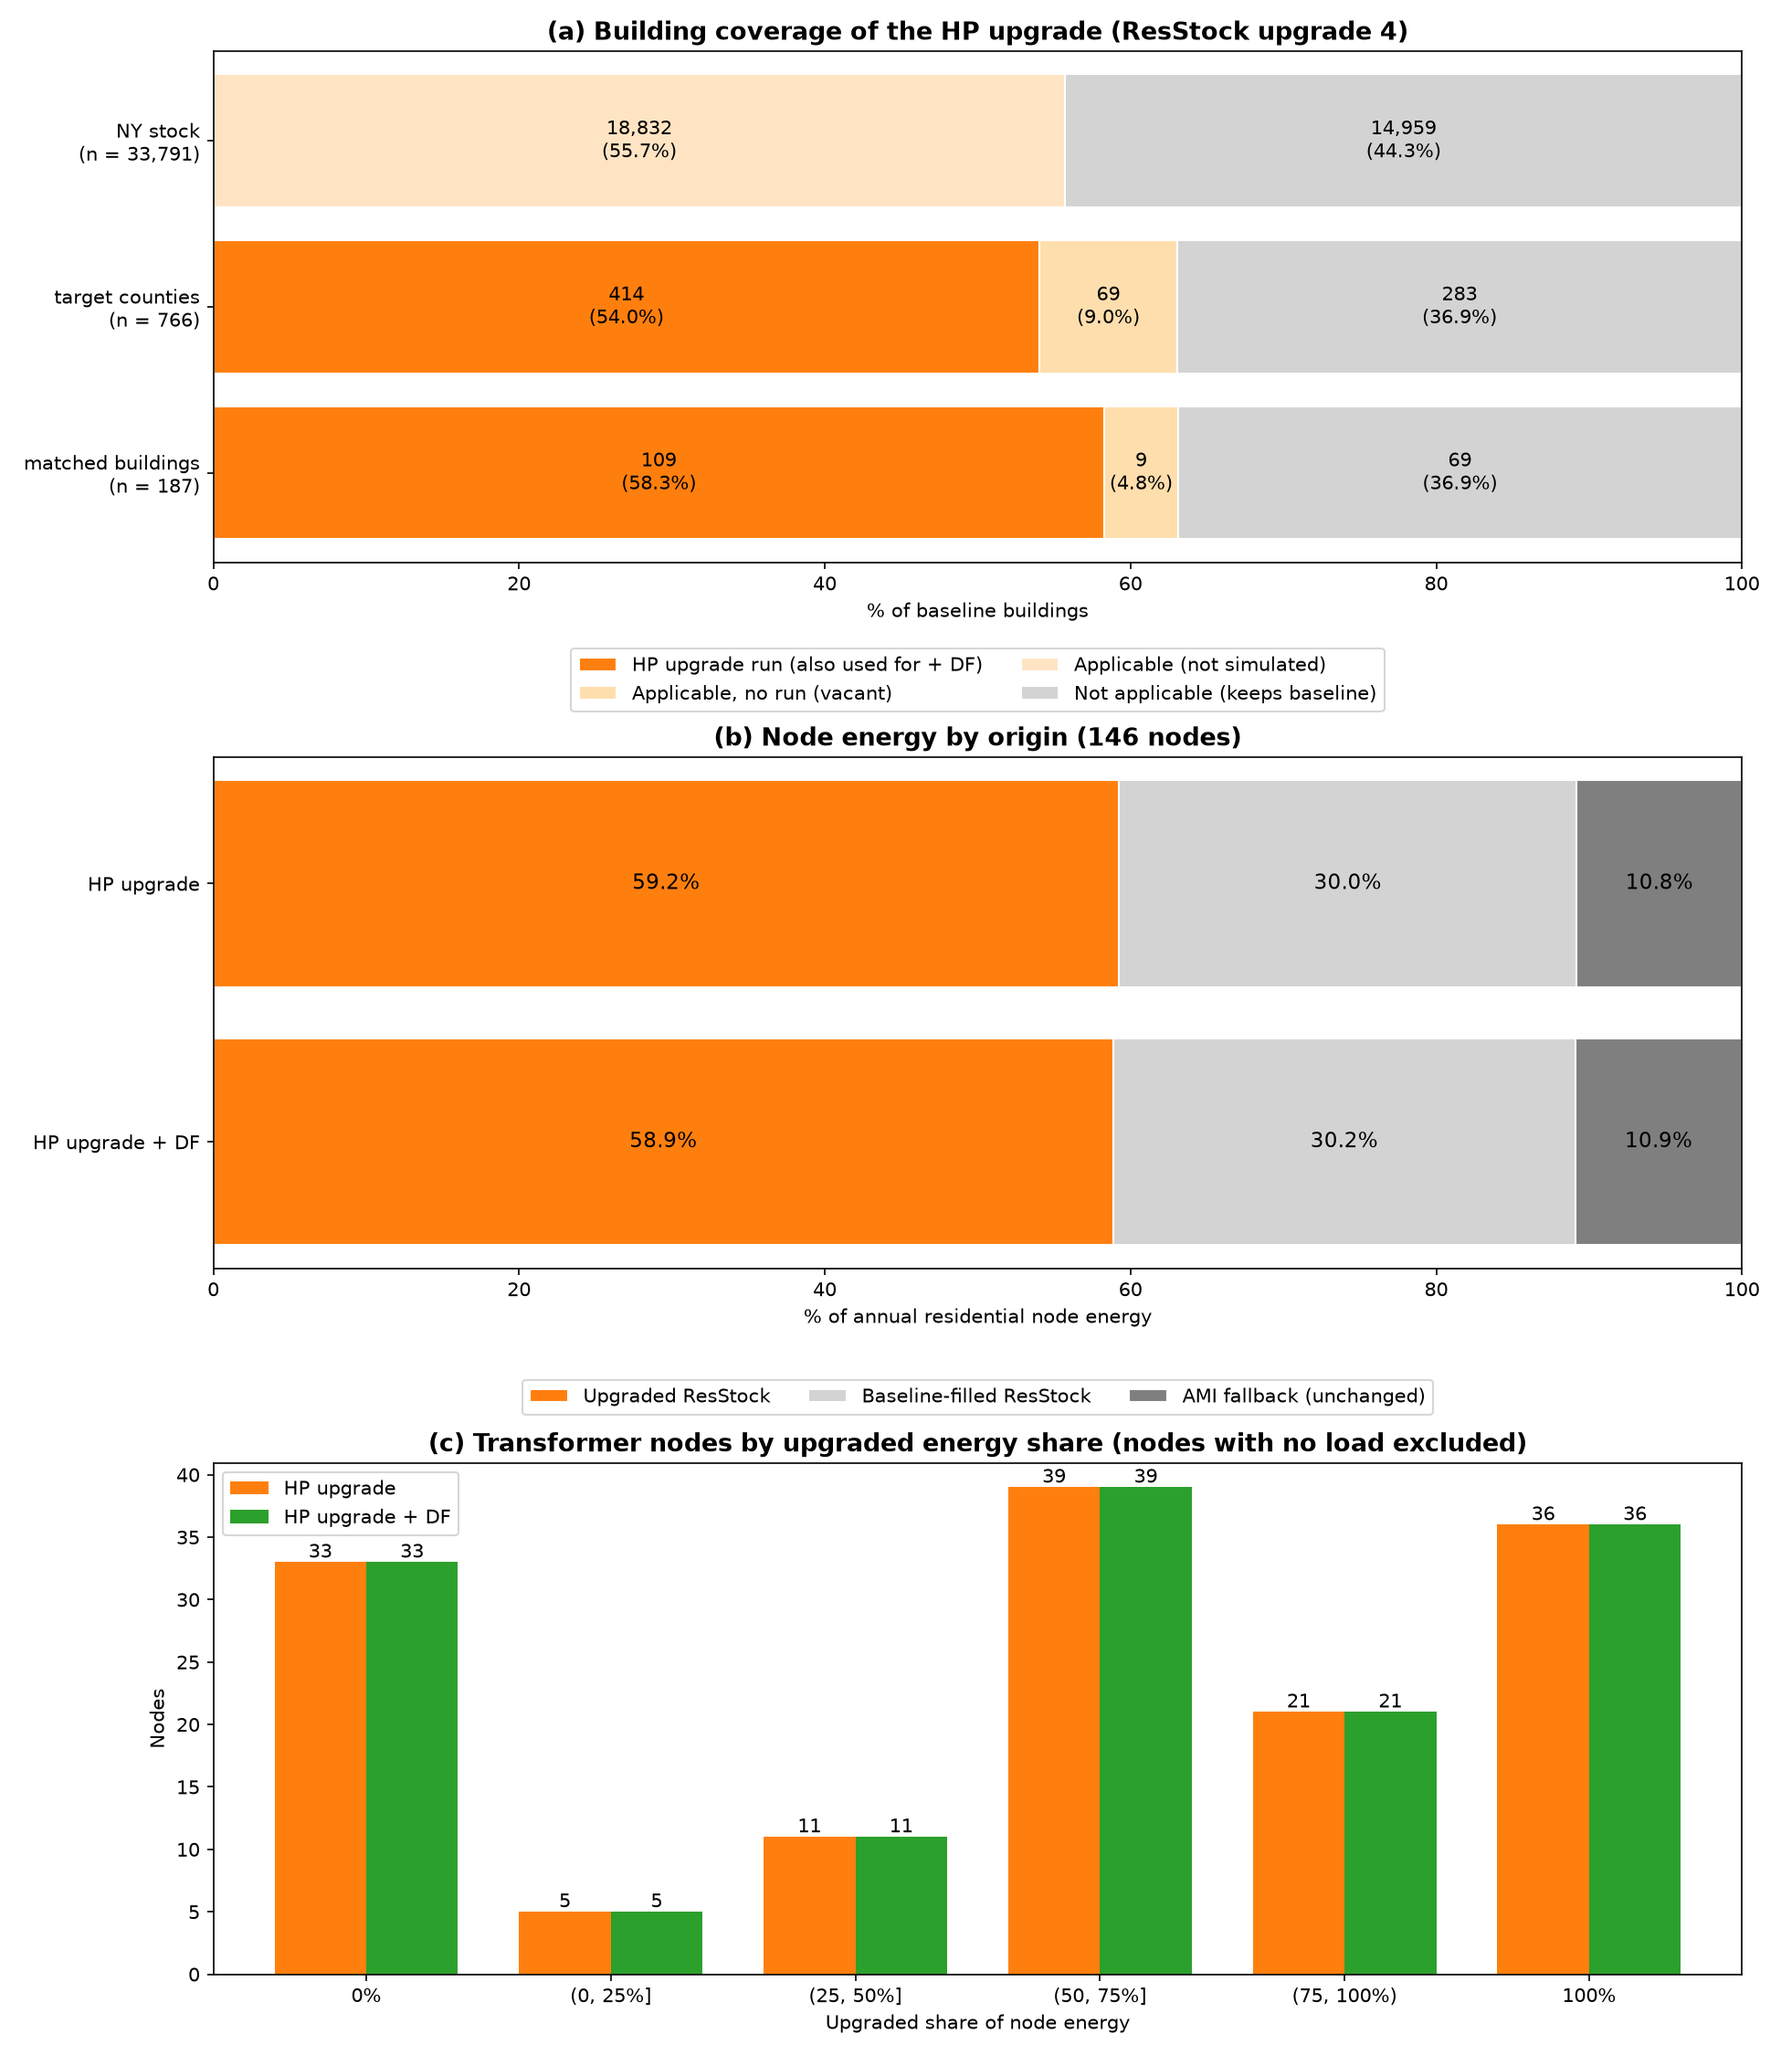
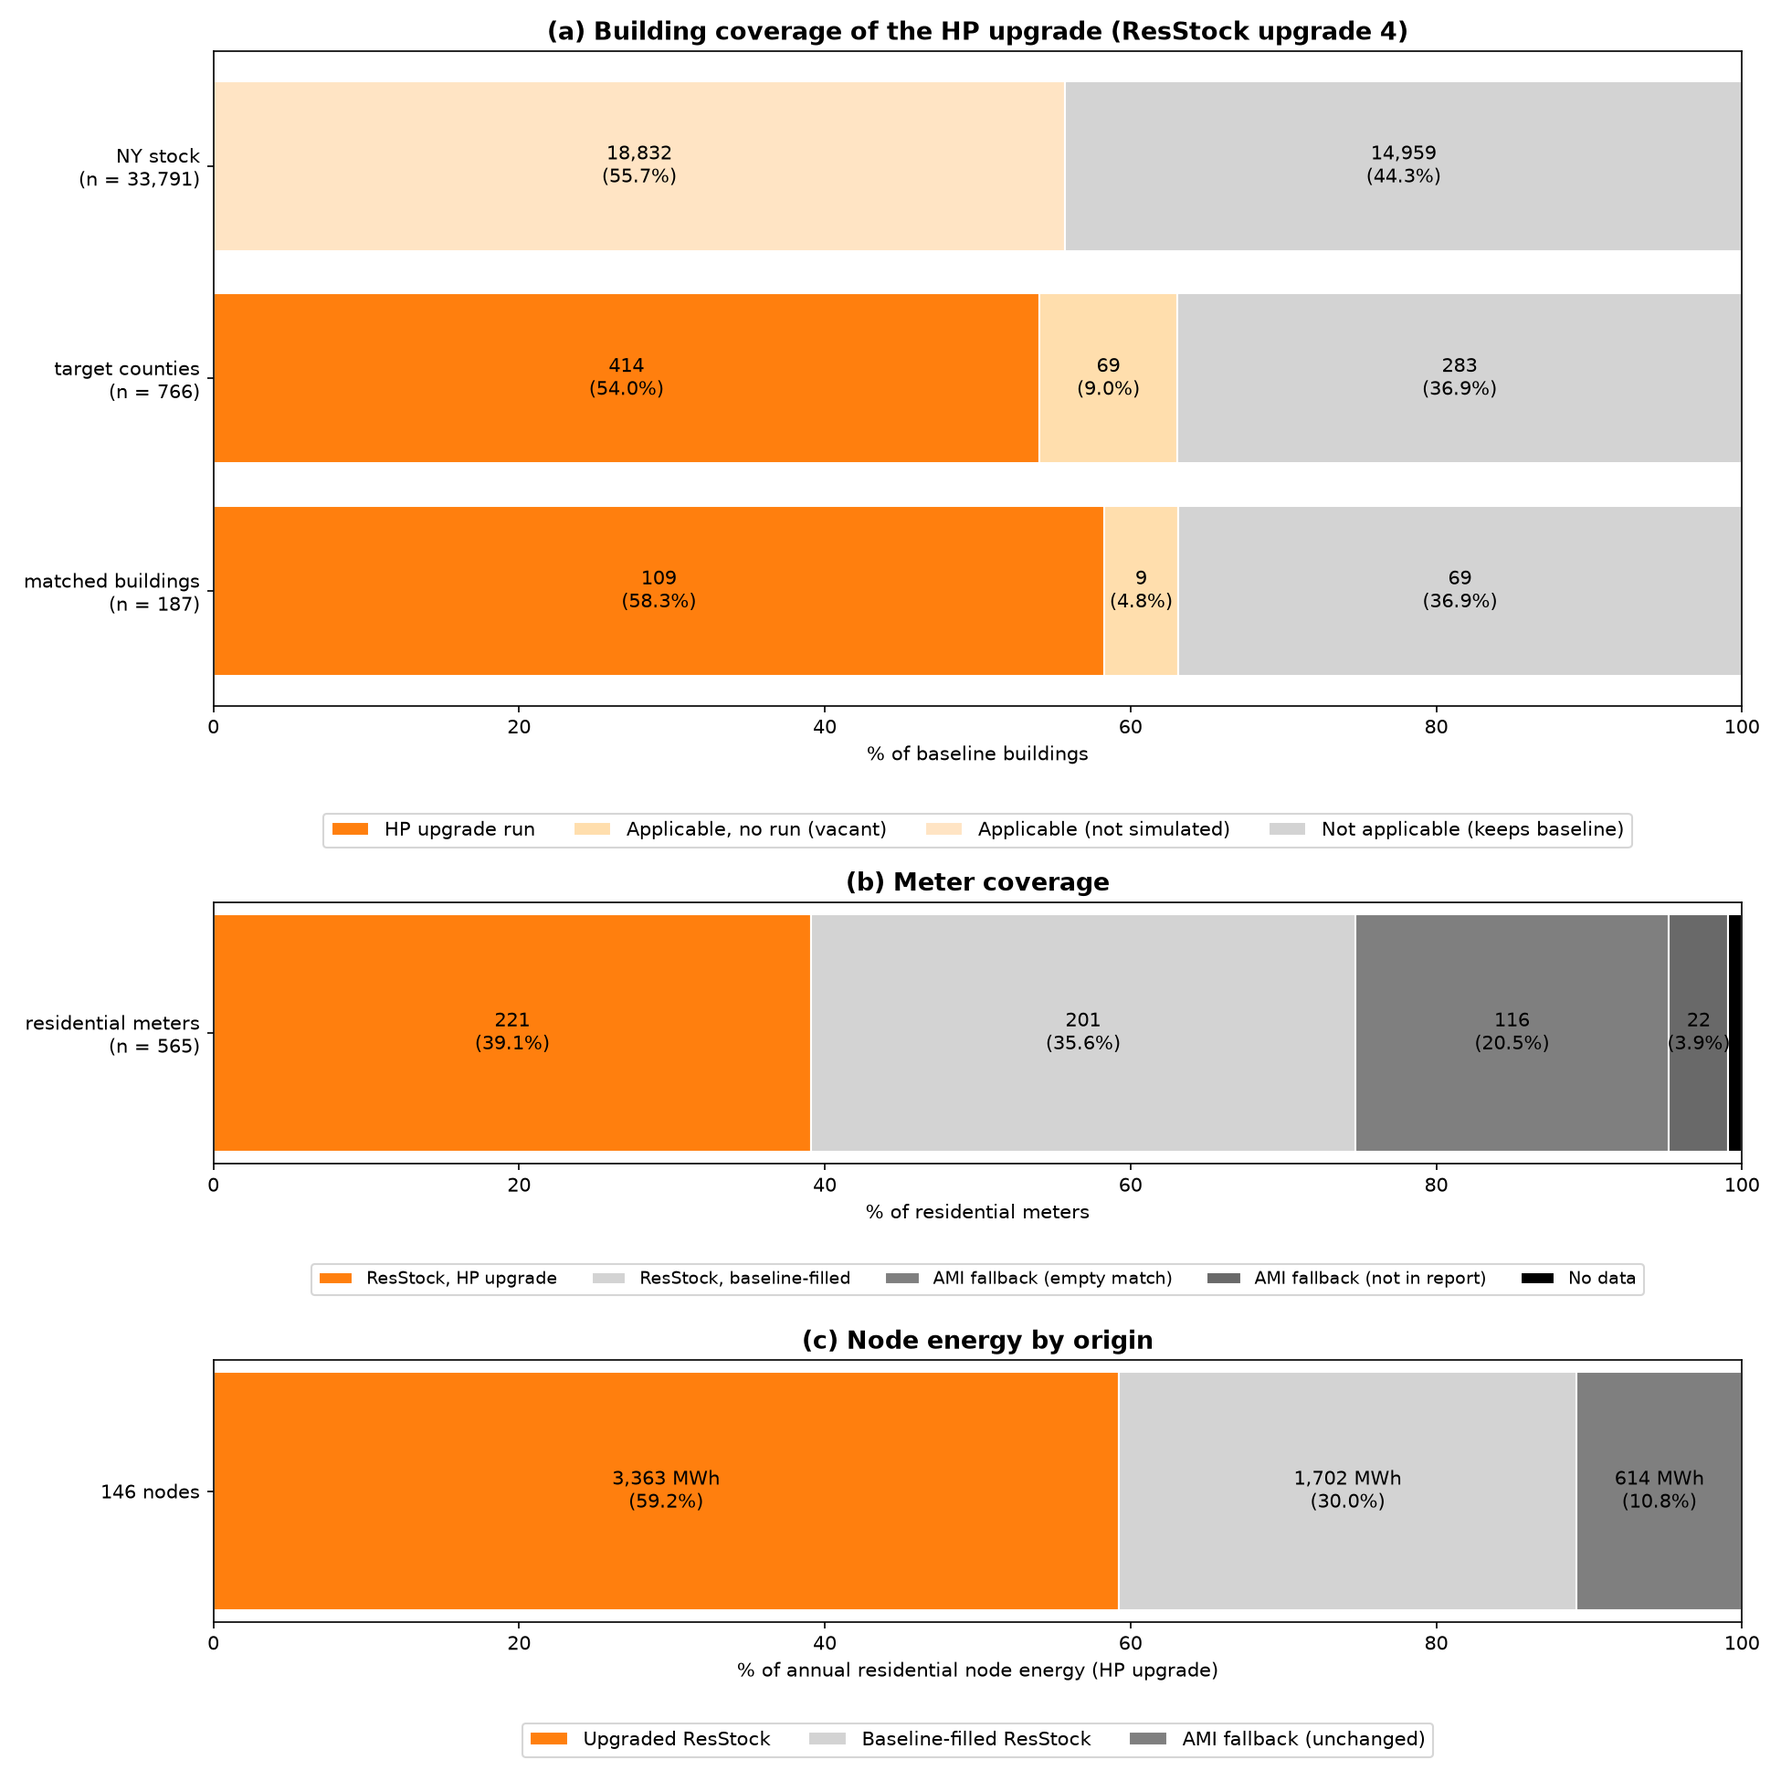
update coverage plot

diff --git a/docs/pipeline_summary.md b/docs/pipeline_summary.md
@@ -332,8 +332,8 @@ How many baseline buildings have an upgrade 4 (`up04_rebuilt`) or upgrade 4 + DF
 - **Transformer nodes (146 RES columns).** Annual node energy splits into 59.2% upgraded ResStock, 30.0% baseline-filled ResStock and 10.8% AMI fallback (HP upgrade+DF: 58.9 / 30.2 / 10.9). 36 nodes are fully upgraded, 76 are mixed and 34 carry no upgraded load (only AMI fallback, baseline-filled buildings, or no data). By upgraded energy share: 33 nodes at 0%, 5 in (0, 25%], 11 in (25, 50%], 39 in (50, 75%], 21 in (75, 100%) and 36 at 100%; one node has no load.
 - **Implication.** Scenario differences at a node scale with its upgraded share; about 40% of residential node energy is unchanged between Baseline and HP upgrade by construction. Read node-level upgrade impacts together with `upgraded_share`.
 
-![Upgrade coverage of buildings and transformer nodes](figures/postprocess/upgrade_coverage.png)
-*Figure 10.1. Upgrade coverage. (a) Baseline buildings at each level split into finished HP upgrade runs, applicable but vacant without a run, and not applicable. (b) Annual residential node energy by origin for each scenario. (c) Transformer nodes by upgraded share of node energy.*
+![Upgrade coverage of buildings, meters and transformer nodes](figures/postprocess/upgrade_coverage.png)
+*Figure 10.1. HP upgrade coverage (HP upgrade + DF has identical coverage, so it is shown once). (a) Baseline buildings at each level split into finished HP upgrade runs, applicable but vacant without a run, and not applicable. (b) The 565 residential meters by load source: ResStock with the HP-upgraded building (221), ResStock with a baseline-filled building (201), AMI fallback (116 empty match + 22 not in the match report) and no data (5). (c) Annual residential energy of the 146 nodes by origin. The + DF energy shares differ by ~0.2 points only because DF lowers the upgraded buildings' annual kWh by ~1.5%; it is not a coverage difference.*
 
 ## 11. Time alignment and calendar conventions
 
